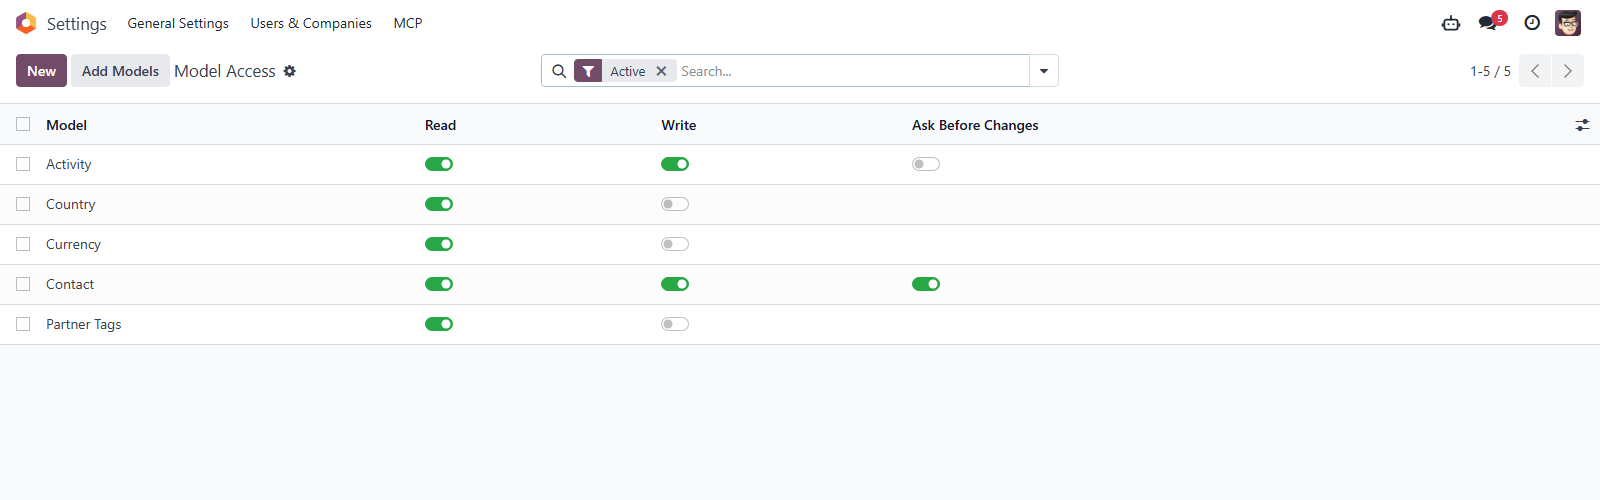
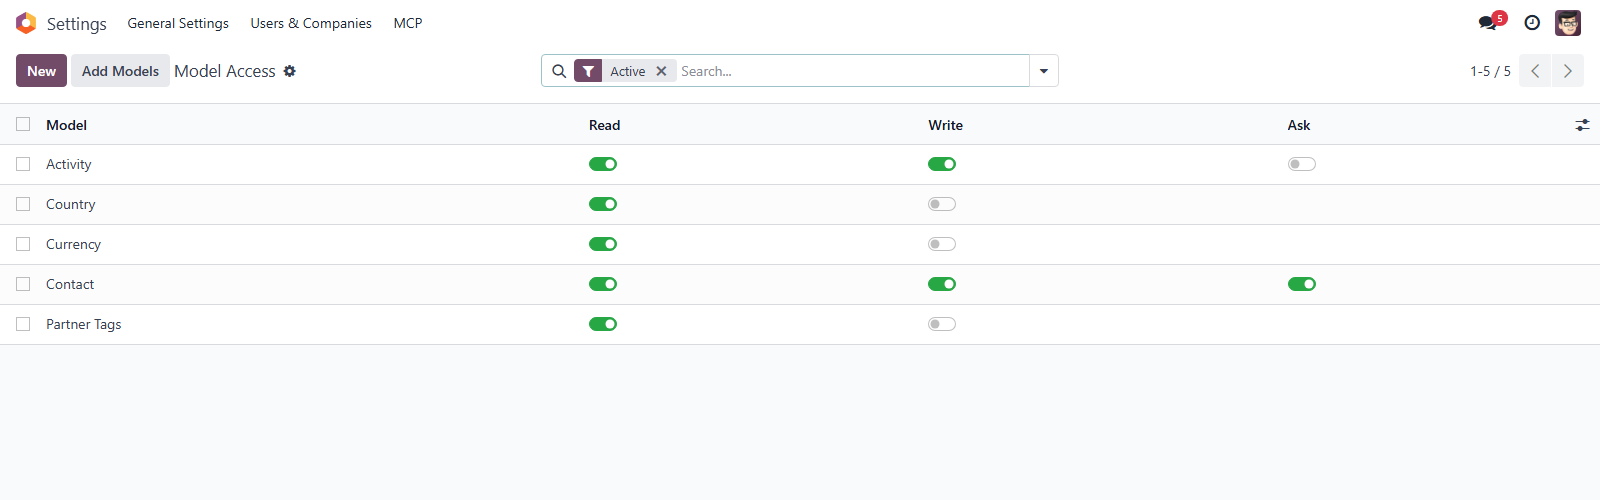
Update muk_mcp_access (efddfd3b)

diff --git a/muk_mcp_access/static/description/index.html b/muk_mcp_access/static/description/index.html
@@ -82,7 +82,7 @@
 		<div class="text-justify" style="max-width:84%; margin:16px 8%">
 			<h3 class="oe_slogan">Ask Before Changes</h3>
 			<p>
-				Switch on <em>Ask Before Changes</em> for the models where a mistake
+				Switch on <em>Ask</em> for the models where a mistake
 				hurts. A write changes nothing until the user has seen it in the AI
 				client and accepted it. The question names the records and shows the
 				values, and an answer counts for this one call, once.

diff --git a/muk_mcp_access/models/mcp_access.py b/muk_mcp_access/models/mcp_access.py
@@ -48,7 +48,7 @@ class MCPAccessModel(models.Model):
     )
 
     confirm_write = fields.Boolean(
-        string='Ask Before Changes',
+        string='Ask',
         help=(
             'Ask the user in the AI client before a write tool runs on this '
             'model. A client that cannot ask is refused.'

diff --git a/muk_mcp_access/__manifest__.py b/muk_mcp_access/__manifest__.py
@@ -10,7 +10,7 @@
         first model is added only whitelisted models are exposed — the AI
         agent cannot discover or query anything else.
     """,
-    'version': '17.0.1.2.0',
+    'version': '17.0.1.2.1',
     'category': 'Tools/API',
     'license': 'LGPL-3',
     'author': 'MuK IT',

diff --git a/muk_mcp_access/doc/index.rst b/muk_mcp_access/doc/index.rst
@@ -42,7 +42,7 @@ Each entry controls:
   ``search_read``, ``read_records``, ``describe_model``, etc.
 - **Write** — model is writable via ``create_records``,
   ``update_records``, ``delete_records``, and ``call_method``.
-- **Ask Before Changes** — the user is asked in the AI client before
+- **Ask** — the user is asked in the AI client before
   a write tool runs on the model. A client that cannot ask is refused.
 
 Use the *Add Models* button to bulk-enable multiple models at once.

diff --git a/muk_mcp_access/README.md b/muk_mcp_access/README.md
@@ -20,7 +20,7 @@ Each entry controls:
   `search_read`, `read_records`, `describe_model`, etc.
 - **Write** -- model is writable via `create_records`,
   `update_records`, `delete_records`, and `call_method`.
-- **Ask Before Changes** -- the user is asked in the AI client before
+- **Ask** -- the user is asked in the AI client before
   a write tool runs on the model. A client that cannot ask is refused.
 
 Use the _Add Models_ button to bulk-enable multiple models at once.
